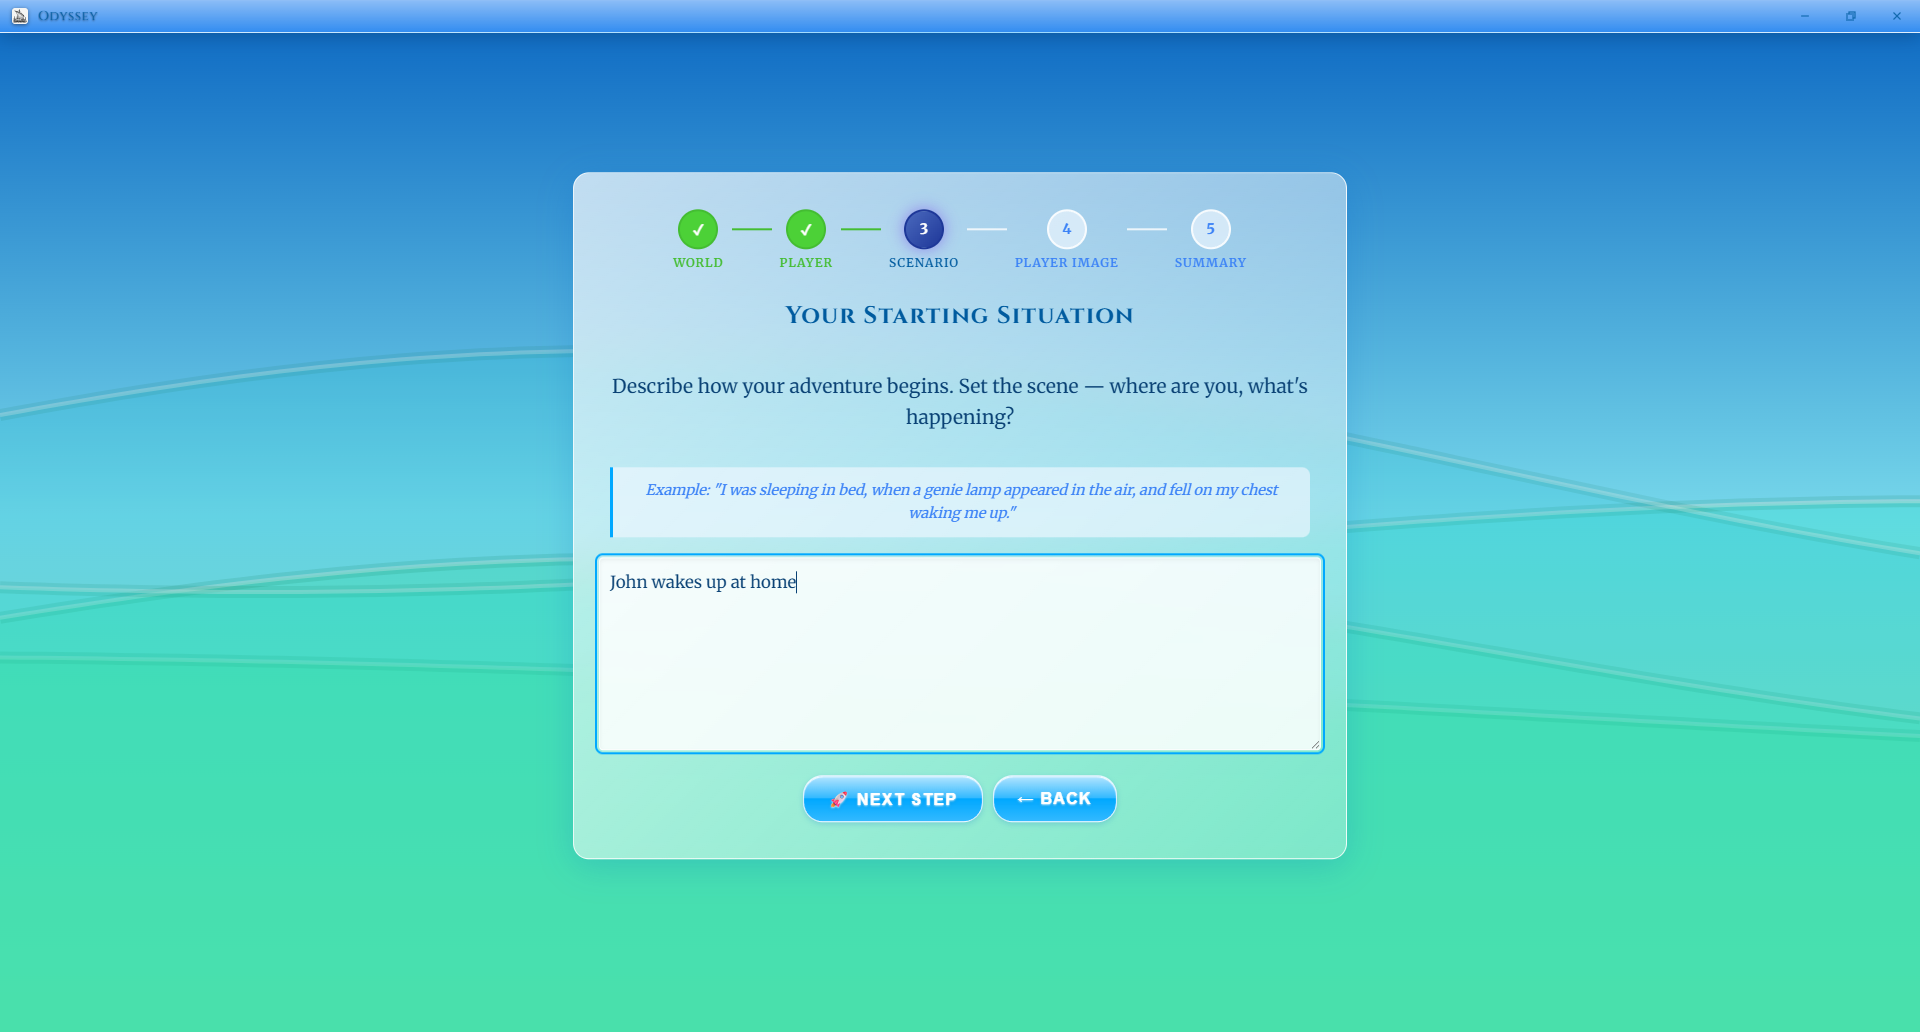
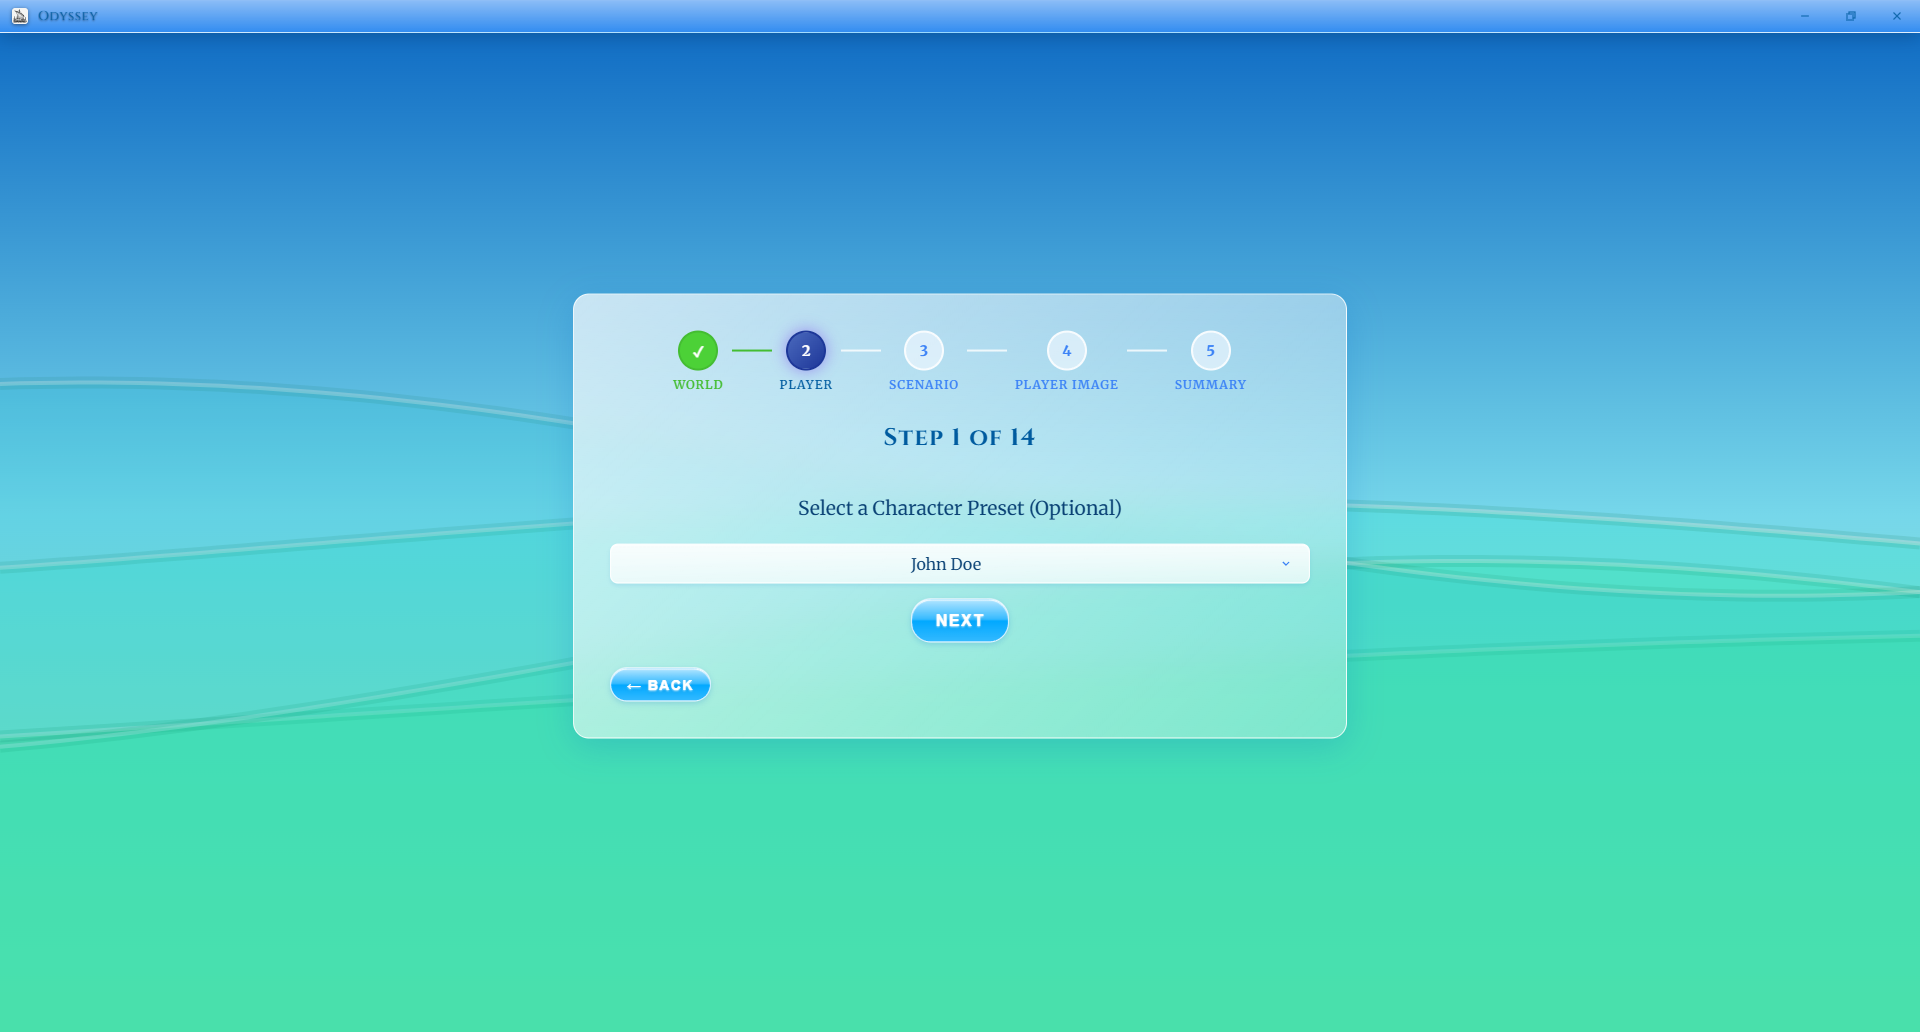
chore: fix README screenshots and trim release/vector docs
Swap mislabeled preset/scenario images, drop release-pipeline wording,
and note that premade universe vector stores are deprecated.

diff --git a/README.md b/README.md
@@ -30,7 +30,7 @@
 
 ## Download
 
-**The recommended way to install Odyssey is through GitHub Releases.** Prebuilt installers for Windows, macOS, and Linux are produced automatically by the project's [Tauri Build & Release](.github/workflows/tauri.yml) workflow when a version tag (for example `v0.6.1`) is pushed.
+**The recommended way to install Odyssey is through GitHub Releases.** Prebuilt installers are available for Windows, macOS, and Linux.
 
 ### [Download the latest release &rarr;](https://github.com/DUR6NA/Odyssey/releases/latest)
 
@@ -40,7 +40,7 @@
 | macOS   | `Odyssey_x.y.z_aarch64.dmg` / `Odyssey_x.y.z_x64.dmg` |
 | Linux   | `odyssey_x.y.z_amd64.deb` or `odyssey_x.y.z_amd64.AppImage` |
 
-After installing, launch Odyssey and follow the in-app welcome screen to configure an AI provider. Text-only play is also available via the [terminal CLI and Telegram bot](#terminal-and-telegram-play) without using the installers.
+After installing, launch Odyssey and follow the in-app welcome screen to configure an AI provider. Text-only play is also available via the [terminal CLI and Telegram bot](#terminal-and-telegram-play).
 
 ---
 
@@ -49,7 +49,7 @@ After installing, launch Odyssey and follow the in-app welcome screen to configu
 - **Universal AI backend** — Works with any OpenAI-compatible API: OpenAI, Google Gemini (via compatibility endpoint), xAI, OpenRouter, Ollama, LM Studio, or any self-hosted endpoint. Requests go directly from the app to the provider; nothing is routed through a middleman.
 - **Guided setup wizard** — A five-step flow (World &rarr; Player &rarr; Scenario &rarr; Player Image &rarr; Summary) gets you into a new campaign in minutes.
 - **Real or custom universes** — Start your adventure in the real world with any date you choose, or choose from a list of pre-made universes.
-- **World wiki search and RAG** - Pull relevant live wiki/search context for the active world, optionally combine it with local vector memory, and keep large experimental universe stores separate from the stable app package.
+- **World wiki search and RAG** — Pull relevant live wiki/search context for the active world, and optionally combine it with local game-memory vector RAG.
 - **Character presets** — Save reusable characters (stats, appearance, personality, gear) and load them into any new campaign.
 - **AI-generated portraits** — Character and scene artwork generated on demand from detailed, editable prompts.
 - **Live game state** — Health, Money, Hunger, Thirst, and Energy are tracked every turn and surfaced in the sidebar.
@@ -76,17 +76,17 @@ When playing in the real universe, you can pick any calendar date. The dice roll
 
 ![Start date picker](readme%20images/start%20date.png)
 
-### Starting scenario
-
-Describe the opening moment of the story — where the character is, what's happening, and how the adventure kicks off.
-
-![Starting Situation](readme%20images/starting%20scenario.png)
-
 ### Character preset picker
 
 Load a previously saved character into the new campaign in a single click, or skip this step to build one from scratch.
 
 ![Select a Character Preset](readme%20images/choose%20preset.png)
+
+### Starting scenario
+
+Describe the opening moment of the story — where the character is, what's happening, and how the adventure kicks off.
+
+![Starting Situation](readme%20images/starting%20scenario.png)
 
 ### AI-generated character portrait
 
@@ -175,12 +175,10 @@ The Kokoro provider includes a **voice mixer**: add multiple voices, drag weight
 
 Odyssey has two separate knowledge paths:
 
-1. **World wiki search** - During setup and play, Odyssey can look up relevant world context from Wikipedia-style and Fandom/MediaWiki sources. Built-in and custom worlds can carry wiki metadata, and the retrieved passages are used as live context for the current turn when the related search/RAG settings are enabled.
-2. **Vector RAG stores** - Odyssey can index local game memory and curated universe knowledge into vector stores. These stores are opt-in from **Settings &rarr; RAG** and require a configured embedding provider before retrieval context is injected into turns.
+1. **World wiki search** — During setup and play, Odyssey can look up relevant world context from Wikipedia-style and Fandom/MediaWiki sources. Built-in and custom worlds can carry wiki metadata, and the retrieved passages are used as live context for the current turn when the related search/RAG settings are enabled.
+2. **Game-memory vector RAG** — Odyssey can index local game memory into a per-save vector store. This is opt-in from **Settings &rarr; RAG** and requires a configured embedding provider before retrieval context is injected into turns.
 
-The Harry Potter universe vector store is intentionally separate from the v0.6.1 stable app package. It was validated as an alpha/prerelease vector-store artifact, but it is large and experimental, so the stable release keeps the generator/publisher workflow without bundling that store into the installer.
-
-For maintainers, generation happens in the ignored `.rag-vector-generation/` workspace and curated stores are published intentionally into `public/jsons/universe-vector-stores/`.
+Premade universe vector stores (for example older Harry Potter packs) are effectively deprecated and not recommended to download or use.
 
 ---
 
@@ -226,7 +224,7 @@ Telegram commands include `/verify`, `/load`, `/new`, `/back`, `/edit`, `/histor
 
 ### Retrieval in terminal / Telegram
 
-When Vector RAG, web/wiki, Fandom, or Brave search are enabled in the desktop app, the Node runtimes use the same flags. Game-memory vector RAG embeds and searches the per-save `vector_store.json` via your embedding API (shared with the desktop app). Live Wikipedia, world-wiki/Fandom MediaWiki search, and Brave Search run over HTTP when enabled. Premade universe vector packs (for example the separate Harry Potter store under `public/jsons/universe-vector-stores/`) are **not** loaded in CLI/Telegram.
+When Vector RAG, web/wiki, Fandom, or Brave search are enabled in the desktop app, the Node runtimes use the same flags. Game-memory vector RAG embeds and searches the per-save `vector_store.json` via your embedding API (shared with the desktop app). Live Wikipedia, world-wiki/Fandom MediaWiki search, and Brave Search run over HTTP when enabled.
 
 ### Telegram UI and optional Mini App
 
@@ -270,7 +268,7 @@ API keys are stored locally and are only transmitted directly to the provider yo
 
 ## Building from Source
 
-Building from source is primarily for contributors; most users should [download a release](#download) instead. Installers are built in CI when a matching `v*` tag is pushed (see [`.github/workflows/tauri.yml`](.github/workflows/tauri.yml)); the tag must equal `v` + `package.json` / `src-tauri/tauri.conf.json` version (for this release: `v0.6.1`).
+Building from source is primarily for contributors; most users should [download a release](#download) instead.
 
 ### Prerequisites
 
@@ -303,7 +301,7 @@ npm run odyssey:cli
 npm run odyssey:telegram
 ```
 
-Installers are written to `src-tauri/target/release/bundle/`. The release bundle includes the Telegram bot Node scripts so **Settings → Telegram → Start Bot** works from an installed app when Node is on PATH.
+Installers are written to `src-tauri/target/release/bundle/`.
 
 ---
 
@@ -311,15 +309,13 @@ Installers are written to `src-tauri/target/release/bundle/`. The release bundle
 
 ```
 Odyssey/
-├── .github/workflows/
-│   └── tauri.yml       Tag-triggered multi-platform installer build & release
 ├── src-tauri/          Rust backend (Tauri 2.x with fs, dialog, shell plugins)
 │   ├── src/
 │   │   ├── lib.rs      App setup, invoke handlers
 │   │   ├── audio.rs    Menu music
 │   │   └── telegram_runner.rs  Managed Node process for the in-app Telegram bot
 │   ├── icons/          App icons for all platforms
-│   └── tauri.conf.json Tauri configuration (bundles tools/*.mjs for Telegram)
+│   └── tauri.conf.json Tauri configuration
 ├── public/             Frontend application
 │   ├── Welcome.html    First-run welcome screen
 │   ├── mainmenu.html   Main menu
@@ -339,18 +335,17 @@ Odyssey/
 │   ├── openrouter-attribution.js OpenRouter app attribution headers
 │   ├── style.css       Global design system
 │   ├── assets/         Images, audio, fonts
-│   └── jsons/          Built-in templates, pairing words, and universe stores
+│   └── jsons/          Built-in templates and pairing words
 ├── tools/
 │   ├── odyssey-cli.mjs           Terminal ASCII client
 │   ├── odyssey-telegram-bot.mjs  Telegram long-polling bot
 │   ├── odyssey-core.mjs          Shared saves, turns, settings
-│   ├── odyssey-retrieval.mjs     Shared wiki/RAG helpers for text runtimes
-│   └── …                         Vector-store generation/publish helpers
+│   └── odyssey-retrieval.mjs     Shared wiki/RAG helpers for text runtimes
 ├── readme images/      Assets for this document
 ├── devdocs.html        Developer documentation
 ├── CONTRIBUTING.md     Contribution guide
 ├── OdysseyTelegram.bat Convenience launcher for the Telegram bot
-└── package.json        Scripts: tauri, odyssey:cli, odyssey:telegram
+└── package.json
 ```
 
 ---
